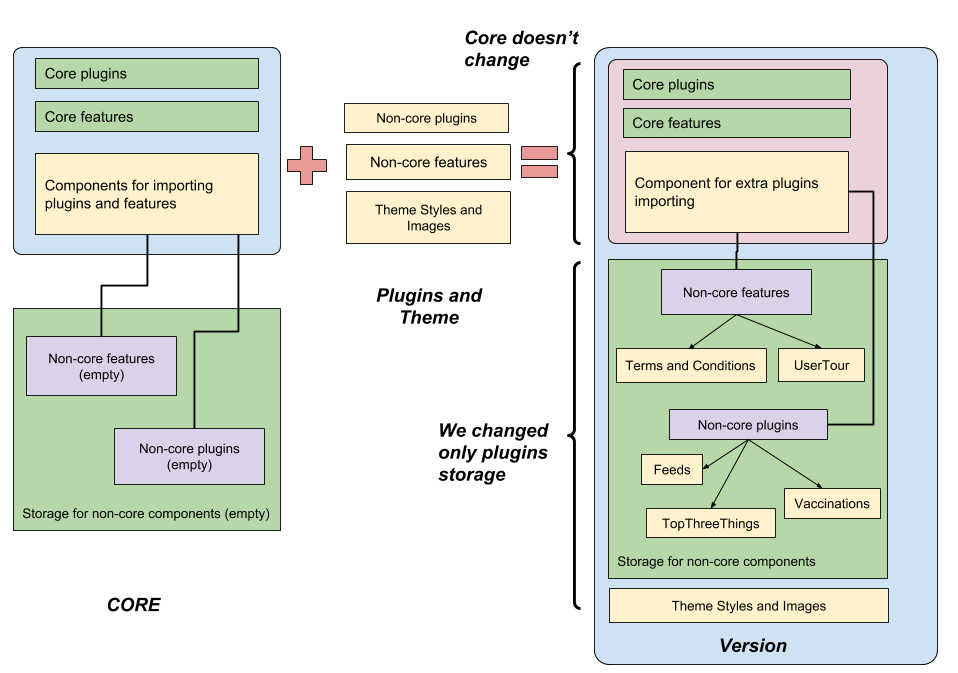
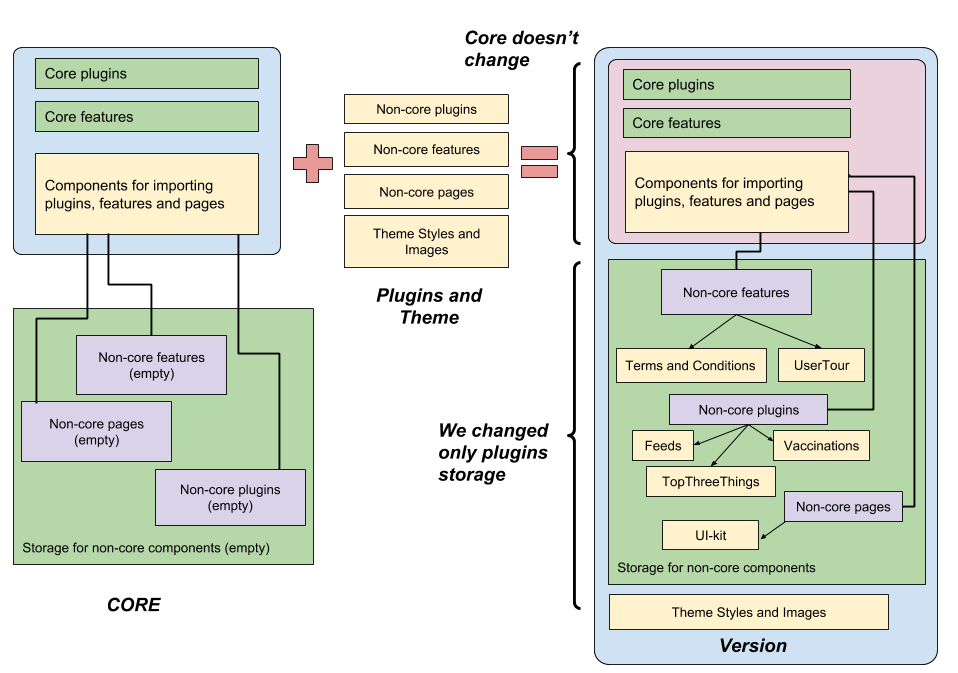
Showcase - UIkit

diff --git a/common/functions.js b/common/functions.js
@@ -10,6 +10,7 @@ const pluginsInfo = require('./plugins/pluginsInfo');
 const recordsOfTableInfo = require('./plugins/recordsOfTable/pluginsInfo');
 const extraPluginsInfo = require('./components/extraPluginsInfo');
 const topHeaderButtonsInfo = require('./components/topHeaderButtonsInfo');
+const pagesInfo = require('./pages/pagesInfo');
 
 /**
  * This module includes common functions, or functions which can be used in different subgenerators
@@ -30,8 +31,17 @@ module.exports = {
    * This function redirects generator to the theme features storage directory
    */
   goToFeaturesDirectory: function() {
-    const themeDirectoryPath = 'PulseTile-React-Core/src/components/theme/components/features';
-    process.chdir(themeDirectoryPath);
+    const featuresDirectoryPath = 'PulseTile-React-Core/src/components/theme/components/features';
+    process.chdir(featuresDirectoryPath);
+    return true;
+  },
+
+  /**
+   * This function redirects generator to the theme pages storage directory
+   */
+  goToPagesDirectory: function() {
+    const pagesDirectoryPath = 'PulseTile-React-Core/src/components/theme/pages';
+    process.chdir(pagesDirectoryPath);
     return true;
   },
 
@@ -81,17 +91,33 @@ module.exports = {
   },
 
   /**
-   * This function checks content of features directory and returns features list
+   * This function checks content of non-core features directory and returns their list
    *
+   * @param {string} dirName
    * @return {array}
    */
   getFeaturesInformation: function(dirName = null) {
     const featuresList = [];
-    let dir = dirName ? dirName : process.cwd();
+    var dir = dirName ? dirName : process.cwd();
     fs.readdirSync(dir).forEach(function(file) {
       featuresList.push(file);
     });
     return featuresList;
+  },
+
+  /**
+   * This function checks content of non-core pages directory and returns their list
+   *
+   * @param {string} dirName
+   * @return {Array}
+   */
+  getPagesInformation: function(dirName = null) {
+    const pagesList = [];
+    var dir = dirName ? dirName : process.cwd();
+    fs.readdirSync(dir).forEach(function(file) {
+      pagesList.push(file);
+    });
+    return pagesList;
   },
 
   /**
@@ -272,4 +298,31 @@ module.exports = {
 
     return true;
   },
+
+  /**
+   * This function updates config files for non-core pages
+   *
+   * @return {boolean}
+   */
+  updateNonCorePages: function (el) {
+    console.log(yosay(`${chalk.yellow('Step 6:')} Non-core pages files updating...`));
+
+    const srcPath = '../pages';
+    process.chdir(srcPath);
+    const pagesList = this.getPagesInformation();
+
+    var pagesInfoArray = [];
+    pagesList.forEach(function(item) {
+        pagesInfoArray.push(pagesInfo[item]);
+    });
+
+    const configDirectoryPath = '../config';
+    process.chdir(configDirectoryPath);
+
+    el.fs.copyTpl(el.templatePath('pages/nonCorePagesUrls.txt'), 'nonCorePagesUrls.js', {
+        pages: pagesInfoArray
+    });
+
+    return true;
+  }
 };

diff --git a/generators/update/index.js b/generators/update/index.js
@@ -20,47 +20,39 @@ module.exports = class extends Generator {
     variable = test;
   }
 
-    prompting() {
-        this.log(
-            yosay(`Welcome to the Config files updating!!!`)
-        );
+  prompting() {
+    this.log(
+      yosay(`Welcome to the Config files updating!!!`)
+    );
+    const prompts = [
+      {
+        type: 'confirm',
+        name: 'someAnswer',
+        message: 'Do you want to update config files?',
+        default: true
+      }
+    ];
+    return this.prompt(prompts).then(props => {
+      this.props = props;
+    });
+  }
 
-        const prompts = [
-            {
-                type: 'confirm',
-                name: 'someAnswer',
-                message: 'Do you want to update config files?',
-                default: true
-            }
-        ];
-
-        return this.prompt(prompts).then(props => {
-            this.props = props;
-        });
+  writing() {
+    try {
+      commonFunctions.goToPluginsDirectory();
+      commonFunctions.updateConfigFiles(this, 2);
+      commonFunctions.updateRecordsOfTable(this, 3);
+      commonFunctions.goToComponentsDirectory();
+      commonFunctions.updateFeaturesConfigFiles(this);
+      commonFunctions.updateNonCorePages(this);
+      fs.copyFileSync(
+        this.templatePath('theme/' + variable + '.txt'),
+        '../../../themes.config.js'
+      );
+    } catch (err) {
+      console.log(yosay(`${chalk.green('ERROR: ')} ${err}`));
+      console.error(`ERROR: ${err}`);
     }
-
-    writing() {
-        try {
-            console.log(variable);
-            commonFunctions.goToPluginsDirectory();
-            commonFunctions.updateConfigFiles(this, 2);
-            commonFunctions.updateRecordsOfTable(this, 3);
-            commonFunctions.goToComponentsDirectory();
-            commonFunctions.updateFeaturesConfigFiles(this);
-
-
-
-                fs.copyFileSync(
-                    this.templatePath('theme/' + variable + '.txt'),
-                    '../../../themes.config.js'
-                );
-
-
-
-        } catch (err) {
-            console.log(yosay(`${chalk.green('ERROR: ')} ${err}`));
-            console.error(`ERROR: ${err}`);
-        }
-    }
+  }
 };
 

diff --git a/generators/page-uikit/index.js b/generators/page-uikit/index.js
@@ -1,0 +1,46 @@
+'use strict';
+const Generator = require('yeoman-generator');
+const chalk = require('chalk');
+const yosay = require('yosay');
+
+const commonFunctions = require('../../common/functions');
+
+module.exports = class extends Generator {
+  prompting() {
+
+    this.log(
+      yosay(`Welcome to the ${chalk.red('UI-kit page')} generator!`)
+    );
+
+    const prompts = [
+      {
+        type: 'confirm',
+        name: 'someAnswer',
+        message: 'Would you like to enable this option?',
+        default: true
+      }
+    ];
+
+    return this.prompt(prompts).then(props => {
+      // To access props later use this.props.someAnswer;
+      this.props = props;
+    });
+  }
+
+  writing() {
+    try {
+      commonFunctions.goToPagesDirectory();
+      commonFunctions.cloneProject(
+        this,
+        'UI-kit page',
+        'master',
+        'https://github.com/PulseTile-Plugins/PulseTile-React-UI-Kit',
+        'UIkit'
+      );
+      console.log(yosay(`Congradulations!!! ${chalk.green('UI-kit page')} was added successfully!!!`));
+    } catch (err) {
+      console.log(yosay(`${chalk.green('ERROR: ')} ${err}`));
+      console.log(yosay(`Please, remove plugin directory ${chalk.green('UI-kit page')} and repeat installing.`));
+    }
+  }
+};

diff --git a/generators/core/functions.js b/generators/core/functions.js
@@ -4,6 +4,7 @@ const process = require('process');
 const mkdirp = require('mkdirp');
 
 module.exports = {
+
   /**
    * This function updates Node modules of Core
    *
@@ -18,7 +19,7 @@ module.exports = {
   },
 
   /**
-   * This function creates directory for plugins
+   * This function creates directory for non-core plugins
    *
    * @return {boolean}
    */
@@ -29,13 +30,24 @@ module.exports = {
   },
 
   /**
-   * This function creates directory for plugins
+   * This function creates directory for non-core features
    *
    * @return {boolean}
    */
   createFeaturesDirectory: function () {
-    const themeDirectoryPath = 'src/components/theme/components/features';
-    mkdirp(themeDirectoryPath);
+    const featuresDirectoryPath = 'src/components/theme/components/features';
+    mkdirp(featuresDirectoryPath);
+    return true;
+  },
+
+  /**
+   * This function creates directory for non-core pages
+   *
+   * @return {boolean}
+   */
+  createPagesDirectory: function () {
+    const pagesDirectoryPath = 'src/components/theme/pages';
+    mkdirp(pagesDirectoryPath);
     return true;
   }
 };

diff --git a/generators/core/index.js b/generators/core/index.js
@@ -39,7 +39,7 @@ module.exports = class extends Generator {
       commonFunctions.cloneProject(
         this,
         'PulseTile-Core',
-        'develop',
+        'master',
         'https://github.com/PulseTile/PulseTile-React-Core',
         'PulseTile-React-Core'
       );
@@ -47,6 +47,7 @@ module.exports = class extends Generator {
       functions.updateNpmModules(this);
       functions.createPluginsDirectory();
       functions.createFeaturesDirectory();
+      functions.createPagesDirectory();
 
       console.log(yosay(`Congradulations!!! ${chalk.green('PulseTile-Core')} was installed successfully!!!`));
 

diff --git a/common/pages/pagesInfo.js b/common/pages/pagesInfo.js
@@ -1,0 +1,10 @@
+/**
+ * This module exports settings which are necessary for theme features, which are imported in <App /> Core component
+ */
+module.exports = {
+  UIkit: {
+    url: '/ui-kit',
+    component: 'UIkit',
+    path: '../pages/UIkit'
+  }
+};

diff --git a/README.md b/README.md
@@ -26,11 +26,13 @@ The current version of Showcase generator includes following sub-generators:
 3) Non-core features sub-generators:
     * for User Tour feature plugin;
     * for Terms and Conditions feature plugin; 
-4) Theme Showcase sub-generator;  
-5) Sub-generator for configuration files updating.
+4) Non-core pages sub-generators:
+    * for UI-kit page;
+5) Theme Showcase sub-generator;  
+6) Sub-generator for configuration files updating.
 
 You can see how it works on the scheme below:
-![alt text](https://github.com/PulseTile/PulseTile-React-Showcase-Generator/blob/kuvakina-patch-1/Showcase-gen.png)
+![alt text](https://github.com/PulseTile/PulseTile-React-Showcase-Generator/blob/master/Showcase-gen.png)
 
 # How it works
 
@@ -51,14 +53,17 @@ _$ yo showcase:plugins-all-silver_
 _$ yo showcase:plugins-all-bronze_  
 _$ yo showcase:plugins-all-carbon_   
 
-4) Clone other features from GitHub and add it to the Non-Core component storage:   
+4) Clone features from GitHub and add it to the Non-Core component storage:   
 _$ yo showcase:feature-user-tour_   
 _$ yo showcase:feature-terms-and-conditions_   
 
-5) Update the config files which unite Core with Non-Core component storage:  
+5) Clone pages from GitHub and add it to the Non-Core component storage:   
+_$ yo showcase:page-uikit_ 
+
+6) Update the config files which unite Core with Non-Core component storage:  
 _$ yo showcase:update --theme=showcase --force_  
 
-3) Create the build:  
+7) Create the build:  
 _$ npm run build_    
 
 After these steps have taken place, the built PulseTile Showcase is ready for use.
@@ -102,6 +107,7 @@ Use Yeoman-generator to create your build automatically:
     $ yo showcase:plugins-all-carbon
     $ yo showcase:feature-user-tour
     $ yo showcase:feature-terms-and-conditions
+    $ yo showcase:page-uikit
     $ yo showcase:update --theme=showcase --force
 ```
 
